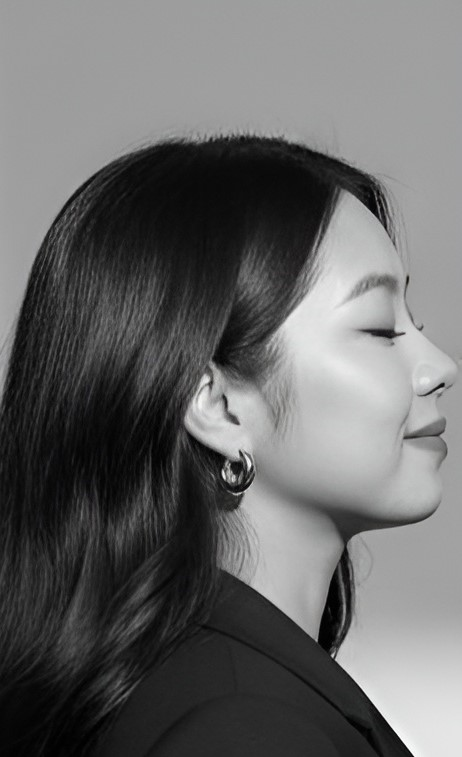
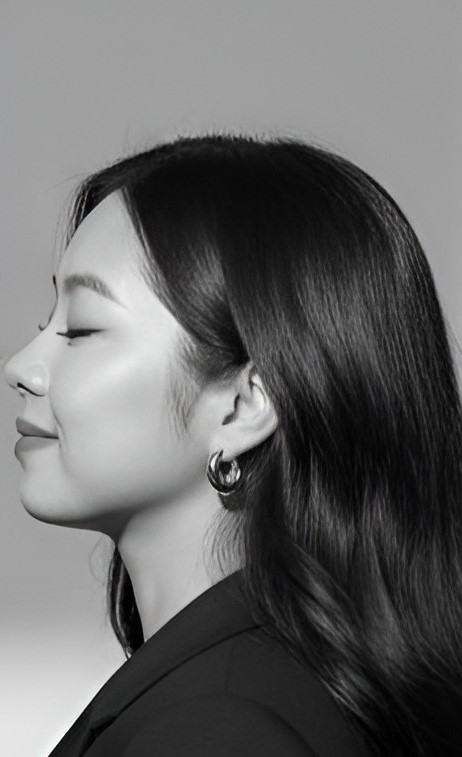
adsda

diff --git a/index.html b/index.html
@@ -9,6 +9,14 @@
     <link
         href="https://fonts.googleapis.com/css2?family=Cormorant+Garamond:wght@300;400;500;600&family=Montserrat:wght@300;400;500&family=Pacifico&display=swap"
         rel="stylesheet">
+
+    <script>
+        let refreshed = sessionStorage.getItem("refreshed");
+        if (!refreshed) {
+            sessionStorage.setItem("refreshed", "yes");
+            location.reload(true);
+        }
+    </script>
 </head>
 
 <body>
@@ -55,7 +63,7 @@
             <div class="couple-container">
                 <div class="couple-card">
                     <div class="couple-image">
-                        <img src="images/groom.jpg" alt="Marco" style="transform: scaleX(-1);">
+                        <img src="images/groom.jpg" alt="Marco">
                     </div>
                     <h3>MARCO</h3>
                     <p class="couple-role">THE GROOM</p>
@@ -88,34 +96,7 @@
         </div>
     </section>
 
-    <!-- Countdown Section -->
-    <section id="countdown" class="countdown-section">
-        <div class="countdown-overlay"></div>
-        <div class="container">
-            <div class="section-header light">
-                <img src="images/save_the_date1.svg" alt="Save the Date" class="save-the-date-svg">
-                <p class="countdown-date-text">December 17, 2025</p>
-            </div>
-            <div class="countdown-timer" id="countdown-timer">
-                <div class="countdown-item">
-                    <span class="countdown-number" id="days">000</span>
-                    <span class="countdown-label">Days</span>
-                </div>
-                <div class="countdown-item">
-                    <span class="countdown-number" id="hours">00</span>
-                    <span class="countdown-label">Hours</span>
-                </div>
-                <div class="countdown-item">
-                    <span class="countdown-number" id="minutes">00</span>
-                    <span class="countdown-label">Minutes</span>
-                </div>
-                <div class="countdown-item">
-                    <span class="countdown-number" id="seconds">00</span>
-                    <span class="countdown-label">Seconds</span>
-                </div>
-            </div>
-        </div>
-    </section>
+
 
     <!-- Gallery Section -->
     <section id="gallery" class="gallery-section">
@@ -168,15 +149,47 @@
         </div>
     </section>
 
+    <!-- Countdown Section -->
+    <section id="countdown" class="countdown-section">
+        <div class="countdown-overlay"></div>
+        <div class="container">
+            <div class="section-header light">
+                <img src="images/save_the_date1.svg" alt="Save the Date" class="save-the-date-svg">
+                <p class="countdown-date-text">December 17, 2025</p>
+            </div>
+            <div class="countdown-timer" id="countdown-timer">
+                <div class="countdown-item">
+                    <span class="countdown-number" id="days">000</span>
+                    <span class="countdown-label">Days</span>
+                </div>
+                <div class="countdown-item">
+                    <span class="countdown-number" id="hours">00</span>
+                    <span class="countdown-label">Hours</span>
+                </div>
+                <div class="countdown-item">
+                    <span class="countdown-number" id="minutes">00</span>
+                    <span class="countdown-label">Minutes</span>
+                </div>
+                <div class="countdown-item">
+                    <span class="countdown-number" id="seconds">00</span>
+                    <span class="countdown-label">Seconds</span>
+                </div>
+            </div>
+        </div>
+    </section>
+
     <!-- Kirim Hadiah Section -->
     <section id="gift" class="gift-section">
         <div class="container">
             <div class="gift-header">
                 <h2 class="gift-title">WEDDING GIFT</h2>
-                <p class="gift-description">Your attendance and heartfelt prayers are truly meaningful to us. Should you be unable to join the celebration and wish to extend a token of love, please feel free to use the feature below.</p>
+                <p class="gift-description">Your attendance and heartfelt prayers are truly meaningful to us. Should you
+                    be unable to join the celebration and wish to extend a token of love, please feel free to use the
+                    feature below.</p>
                 <button class="gift-toggle-btn" onclick="toggleGiftCards()">
                     <svg width="20" height="20" viewBox="0 0 24 24" fill="currentColor">
-                        <path d="M20 6h-2.18c.11-.31.18-.65.18-1 0-1.66-1.34-3-3-3-1.05 0-1.96.54-2.5 1.35l-.5.67-.5-.68C10.96 2.54 10.05 2 9 2 7.34 2 6 3.34 6 5c0 .35.07.69.18 1H4c-1.11 0-1.99.89-1.99 2L2 19c0 1.11.89 2 2 2h16c1.11 0 2-.89 2-2V8c0-1.11-.89-2-2-2zm-5-2c.55 0 1 .45 1 1s-.45 1-1 1-1-.45-1-1 .45-1 1-1zM9 4c.55 0 1 .45 1 1s-.45 1-1 1-1-.45-1-1 .45-1 1-1zm11 15H4v-2h16v2zm0-5H4V8h5.08L7 10.83 8.62 12 12 7.4l3.38 4.6L17 10.83 14.92 8H20v6z"/>
+                        <path
+                            d="M20 6h-2.18c.11-.31.18-.65.18-1 0-1.66-1.34-3-3-3-1.05 0-1.96.54-2.5 1.35l-.5.67-.5-.68C10.96 2.54 10.05 2 9 2 7.34 2 6 3.34 6 5c0 .35.07.69.18 1H4c-1.11 0-1.99.89-1.99 2L2 19c0 1.11.89 2 2 2h16c1.11 0 2-.89 2-2V8c0-1.11-.89-2-2-2zm-5-2c.55 0 1 .45 1 1s-.45 1-1 1-1-.45-1-1 .45-1 1-1zM9 4c.55 0 1 .45 1 1s-.45 1-1 1-1-.45-1-1 .45-1 1-1zm11 15H4v-2h16v2zm0-5H4V8h5.08L7 10.83 8.62 12 12 7.4l3.38 4.6L17 10.83 14.92 8H20v6z" />
                     </svg>
                     SEND GIFT
                 </button>
@@ -201,8 +214,10 @@
                         <p class="account-holder">Marco</p>
                         <div class="account-number-wrapper">
                             <p class="account-number" data-account="8305251590">8305251590</p>
-                            <button class="copy-btn" onclick="copyToClipboard('8305251590', this)" aria-label="Copy account number">
-                                <svg width="18" height="18" viewBox="0 0 24 24" fill="none" stroke="currentColor" stroke-width="2">
+                            <button class="copy-btn" onclick="copyToClipboard('8305251590', this)"
+                                aria-label="Copy account number">
+                                <svg width="18" height="18" viewBox="0 0 24 24" fill="none" stroke="currentColor"
+                                    stroke-width="2">
                                     <rect x="9" y="9" width="13" height="13" rx="2" ry="2"></rect>
                                     <path d="M5 15H4a2 2 0 0 1-2-2V4a2 2 0 0 1 2-2h9a2 2 0 0 1 2 2v1"></path>
                                 </svg>
@@ -221,8 +236,10 @@
                         <p class="account-holder">Amanda Lie</p>
                         <div class="account-number-wrapper">
                             <p class="account-number" data-account="063097-88364699">063097-88364699</p>
-                            <button class="copy-btn" onclick="copyToClipboard('063097-88364699', this)" aria-label="Copy account number">
-                                <svg width="18" height="18" viewBox="0 0 24 24" fill="none" stroke="currentColor" stroke-width="2">
+                            <button class="copy-btn" onclick="copyToClipboard('063097-88364699', this)"
+                                aria-label="Copy account number">
+                                <svg width="18" height="18" viewBox="0 0 24 24" fill="none" stroke="currentColor"
+                                    stroke-width="2">
                                     <rect x="9" y="9" width="13" height="13" rx="2" ry="2"></rect>
                                     <path d="M5 15H4a2 2 0 0 1-2-2V4a2 2 0 0 1 2-2h9a2 2 0 0 1 2 2v1"></path>
                                 </svg>
@@ -271,7 +288,8 @@
                             <strong>Date:</strong> December 17, 2025<br>
                             <strong>Time:</strong> 12:00 PM onwards
                         </p>
-                        <a href="https://maps.google.com/?q=Adimulia+Hotel" target="_blank" class="btn btn-secondary">Get
+                        <a href="https://maps.google.com/?q=Adimulia+Hotel" target="_blank"
+                            class="btn btn-secondary">Get
                             Directions</a>
                     </div>
                 </div>

diff --git a/styles.css b/styles.css
@@ -369,7 +369,6 @@ a {
     overflow: hidden;
     border: 5px solid var(--border-color);
     box-shadow: var(--shadow);
-    transform: scaleX(-1);
 }
 
 .couple-image img {
@@ -433,7 +432,7 @@ a {
 /* ===== Countdown Section ===== */
 .countdown-section {
     padding: 40px 0;
-    background: url('/images/main/image3.jpg') center/cover no-repeat fixed;
+    background: url('/images/main/image3.jpg') center/fit no-repeat fixed;
     position: relative;
 }
 
@@ -453,7 +452,11 @@ a {
 .countdown-overlay {
     position: absolute;
     inset: 0;
-    background: linear-gradient(135deg, #a94442 0%, rgb(192, 0, 0) 100%);
+    background-image: url(images/money_bg.jpg);
+    transform: scaleY(-1);
+    background-repeat: no-repeat;
+    background-position: center center;
+    background-size: cover;
 }
 
 .countdown-section .container {
